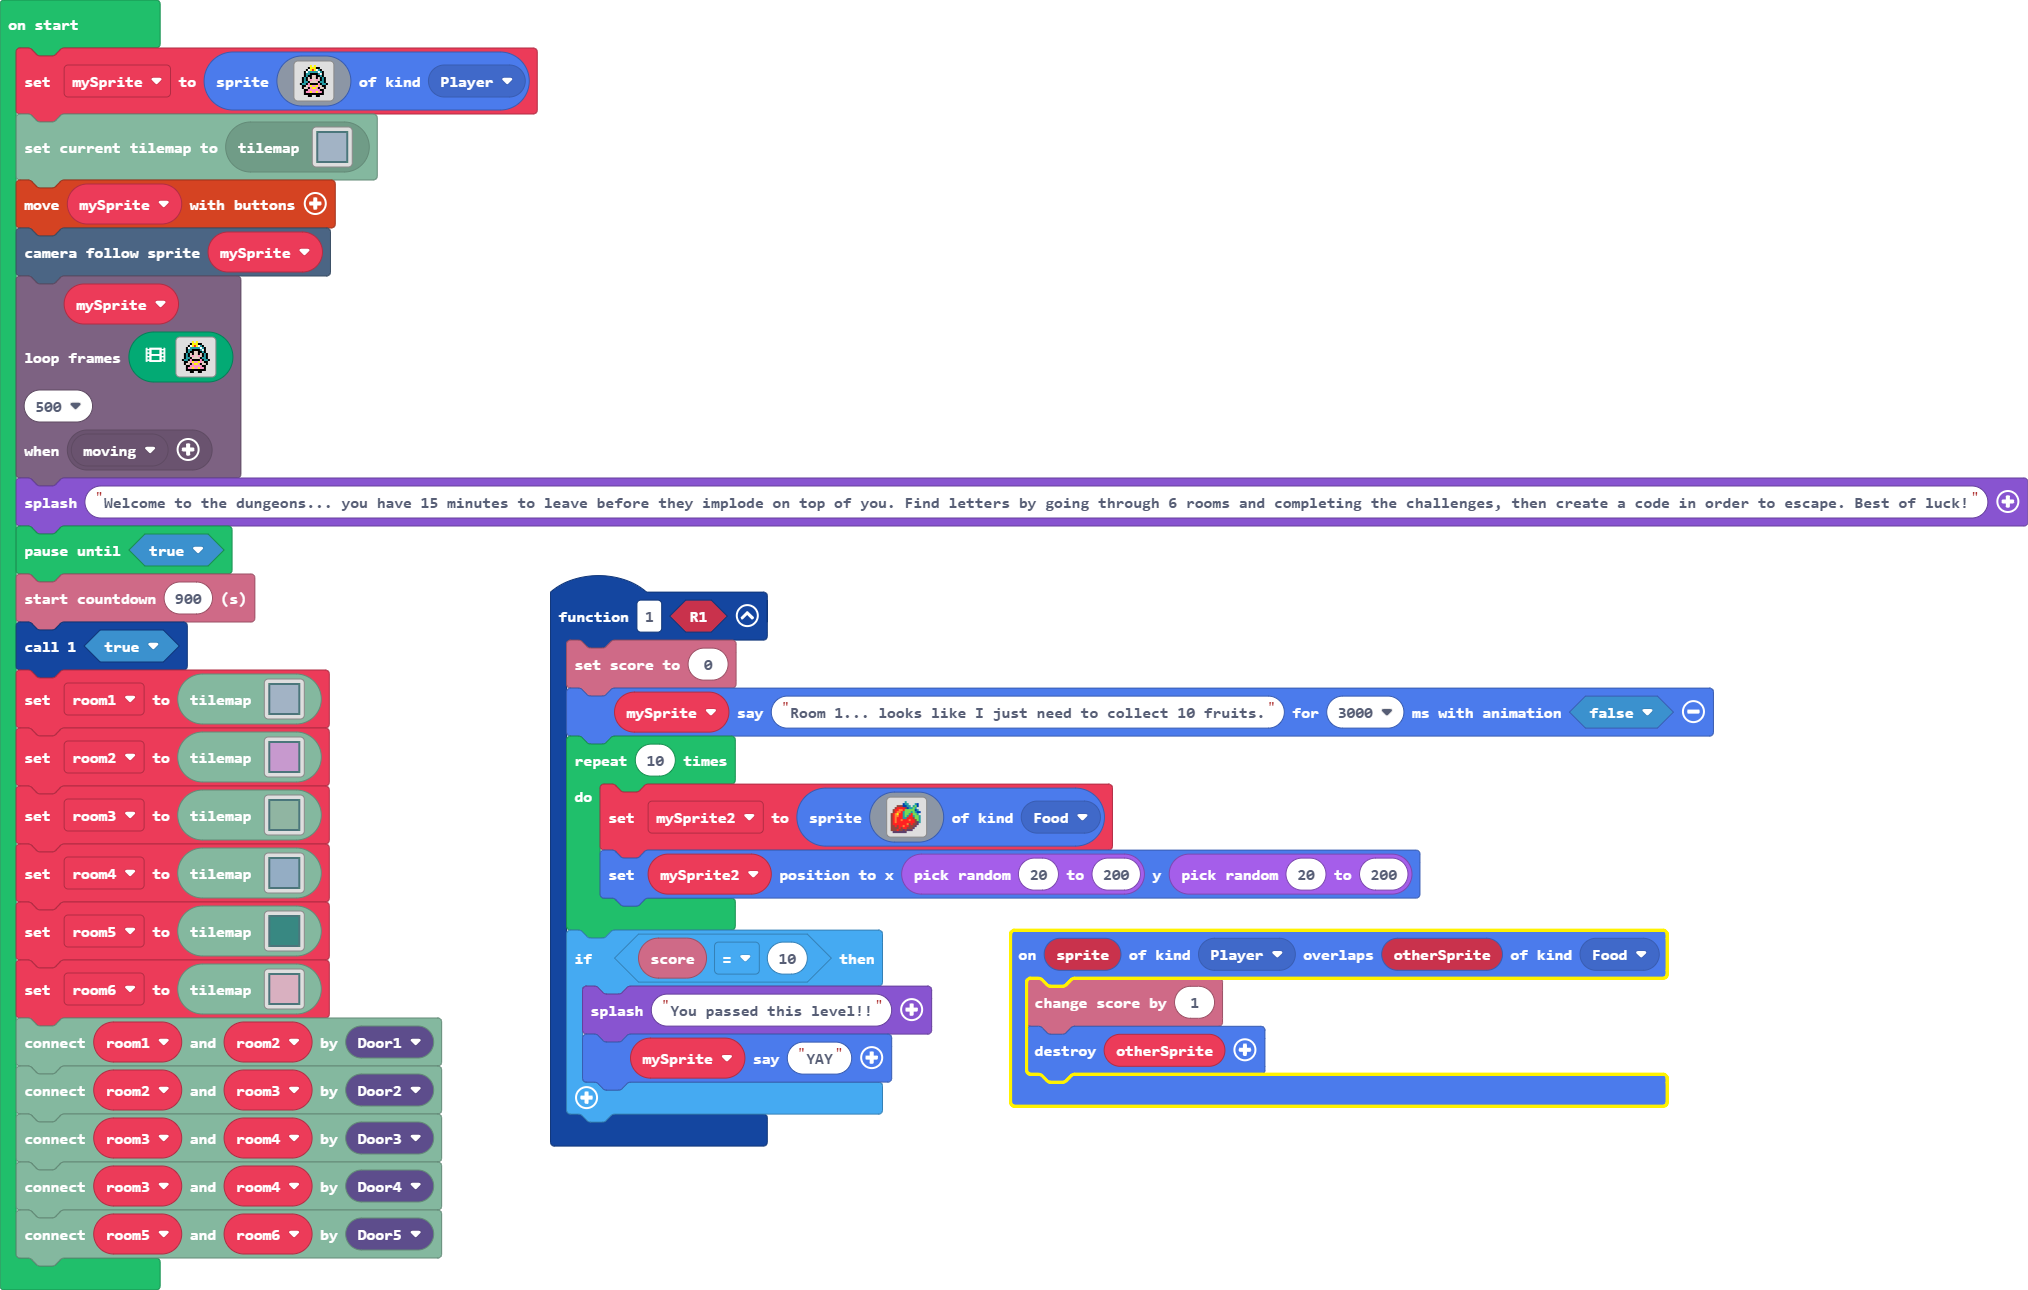
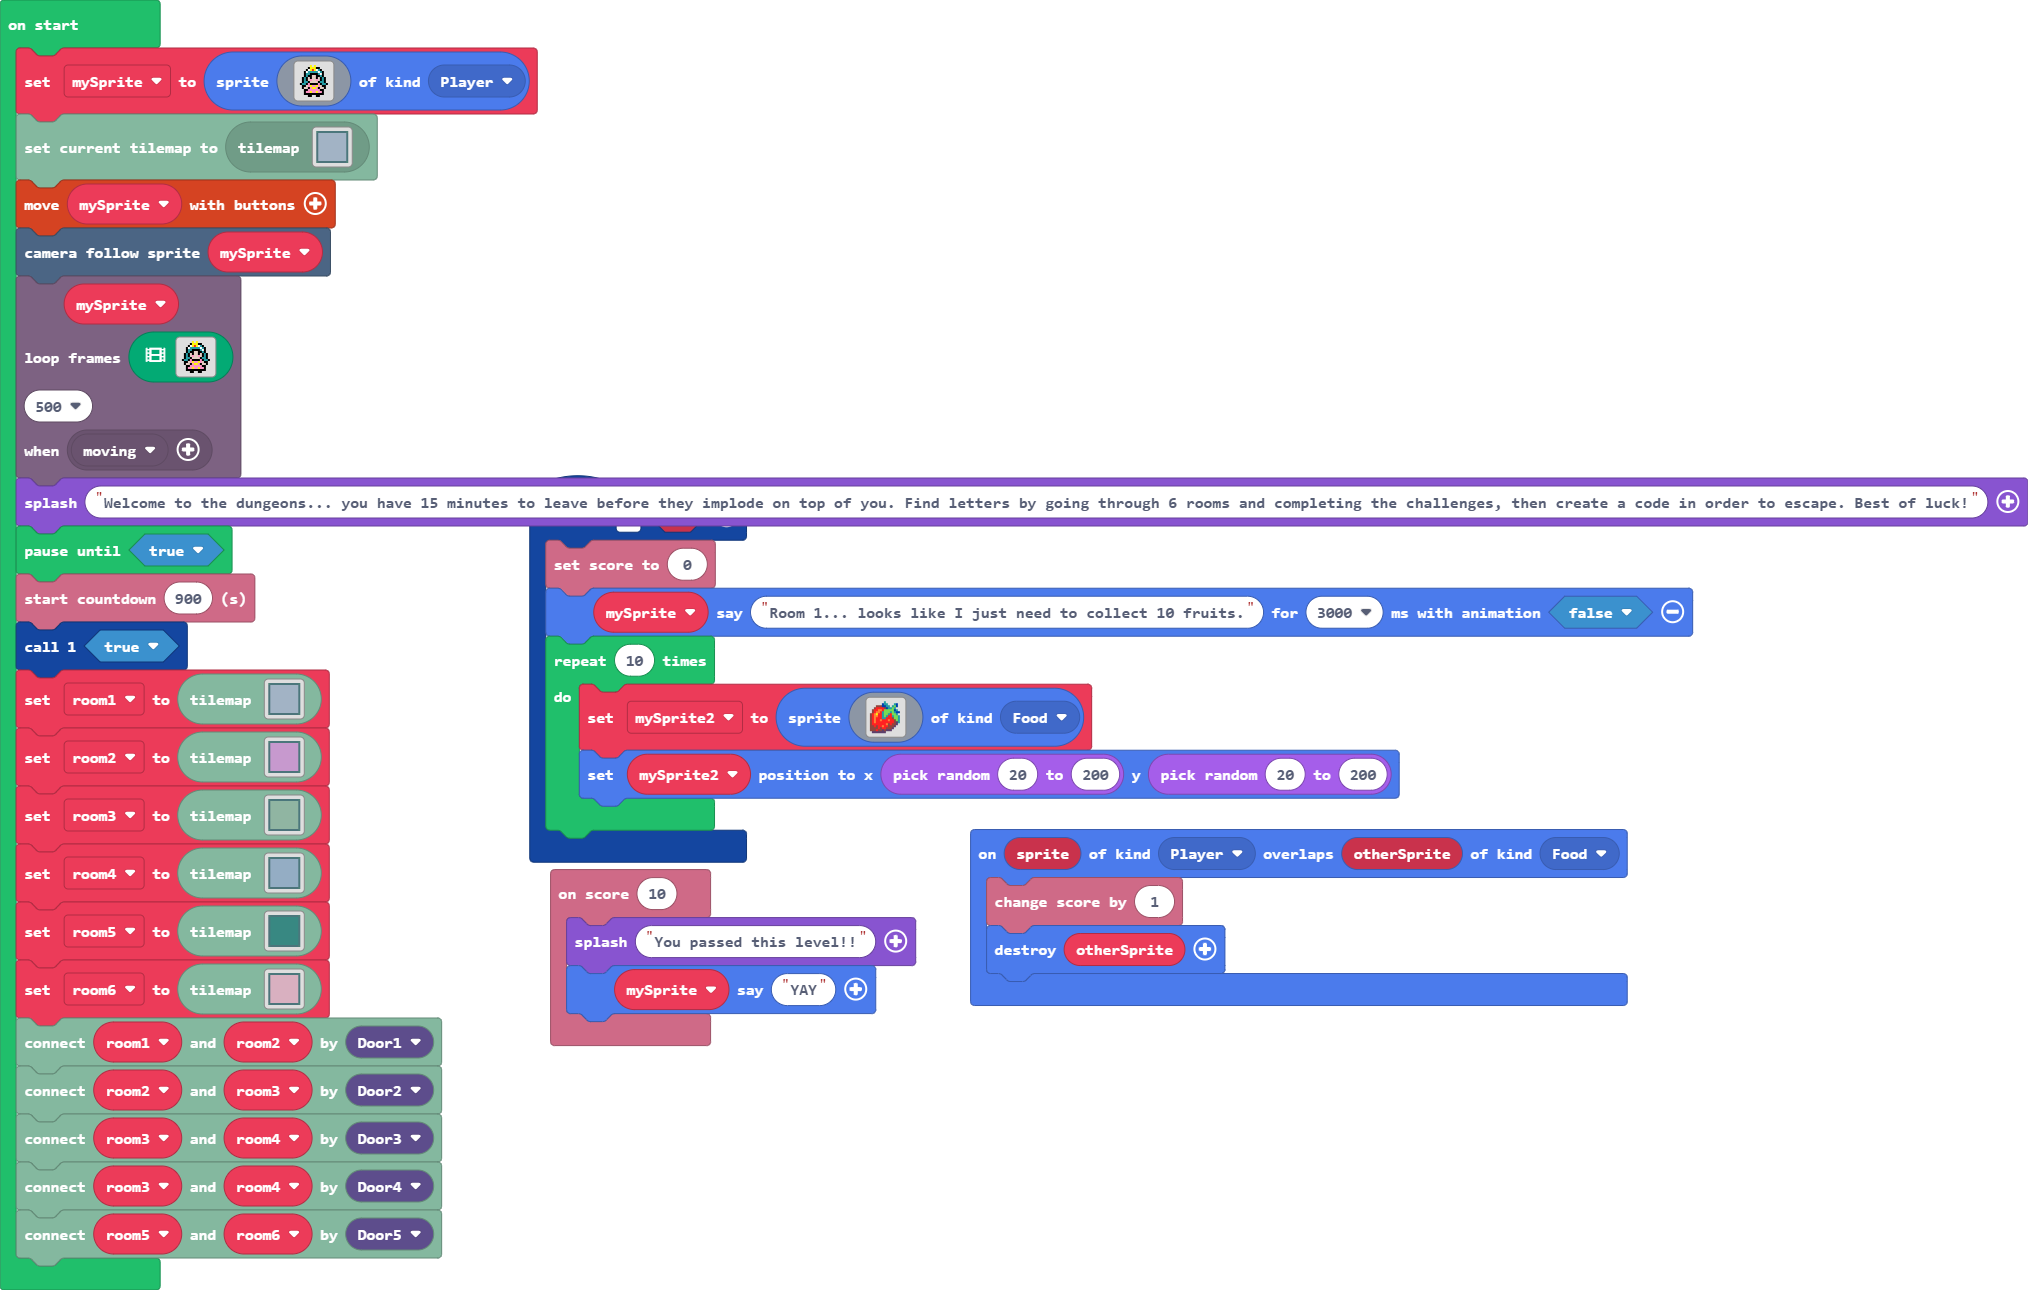
room 1 done!

Changed region(s): [[0.2485, 0.4031, 0.8698, 0.8992]]

diff --git a/main.ts b/main.ts
@@ -3,6 +3,10 @@ namespace ConnectionKind {
     export const Door4 = ConnectionKind.create()
     export const Door5 = ConnectionKind.create()
 }
+info.onScore(10, function () {
+    game.splash("You passed this level!!")
+    mySprite.sayText("YAY")
+})
 sprites.onOverlap(SpriteKind.Player, SpriteKind.Food, function (sprite, otherSprite) {
     info.changeScoreBy(1)
     sprites.destroy(otherSprite)
@@ -30,10 +34,6 @@ function _1 (R1: boolean) {
             . c c c c c c c . . . . . . . . 
             `, SpriteKind.Food)
         mySprite2.setPosition(randint(20, 200), randint(20, 200))
-    }
-    if (info.score() == 10) {
-        game.splash("You passed this level!!")
-        mySprite.sayText("YAY")
     }
 }
 let mySprite2: Sprite = null
